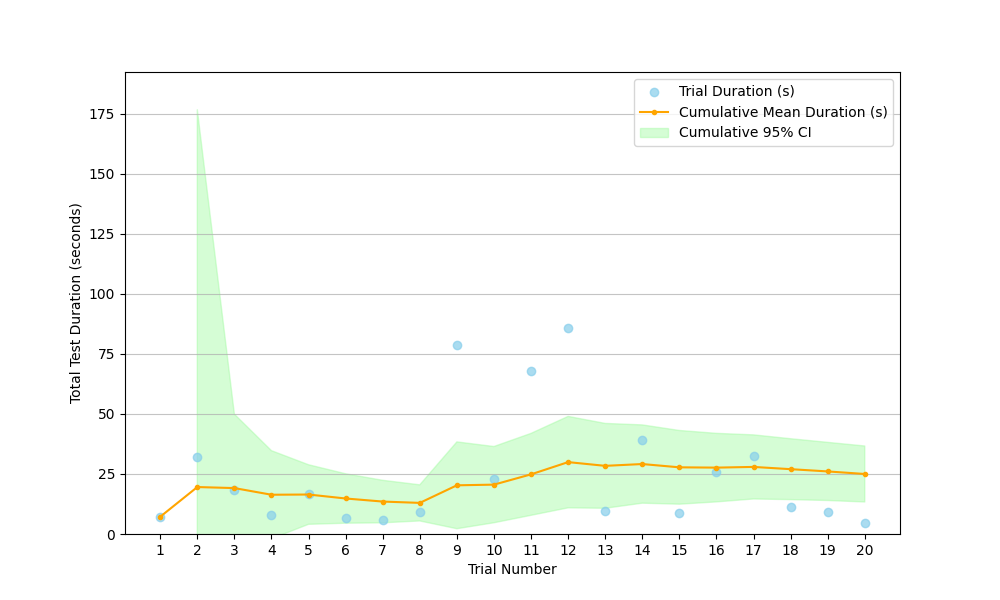
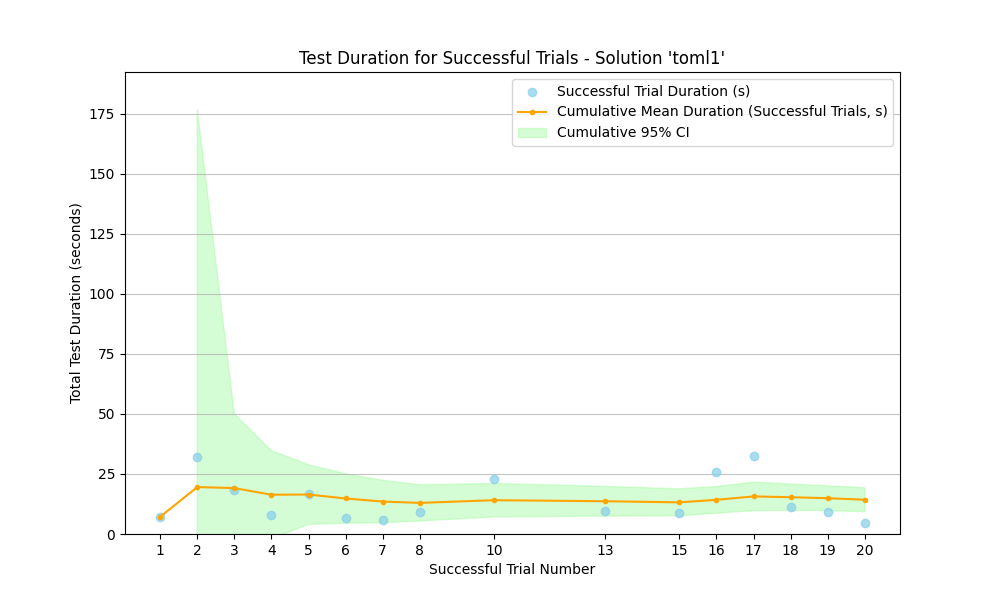
Small change

diff --git a/plot_total_test_time.py b/plot_total_test_time.py
@@ -12,6 +12,37 @@ LOG_DIR = "logs"
 PLOT_DIR = "plots" # Define the output directory for plots
 TIMESTAMP_FORMAT = "%Y-%m-%d %H:%M:%S,%f" # Format including milliseconds
 
+# --- Helper function copied and adapted from plot_interactions_to_success.py ---
+def check_trial_success(tester_log_filepath, solution_name, max_loops):
+    """
+    Checks if a trial was successful based on its tester log file.
+
+    Args:
+        tester_log_filepath (str): Path to the tester log file.
+        solution_name (str): The name of the solution being tested.
+        max_loops (int): The maximum number of loops configured for the test run.
+
+    Returns:
+        bool: True if success message was found, False otherwise.
+    """
+    success_found = False
+    # Regex to find the success line
+    success_pattern = re.compile(rf"--- Solution '{re.escape(solution_name)}' completed successfully\. Stopping loop\. ---")
+
+    try:
+        with open(tester_log_filepath, 'r', encoding='utf-8') as f:
+            for line in f:
+                if success_pattern.search(line):
+                    success_found = True
+                    break # Found success, no need to read further
+        return success_found
+    except FileNotFoundError:
+        print(f"Warning: Tester log file not found for success check: {tester_log_filepath}")
+        return False # Treat missing tester log as failure for duration calculation
+    except Exception as e:
+        print(f"Warning: Error reading tester log file {tester_log_filepath} for success check: {e}")
+        return False # Treat errors as failure
+
 def parse_log_for_duration(log_filepath):
     """
     Parses a single AIPyCraft main log file to find the total duration.
@@ -82,128 +113,157 @@ def parse_log_for_duration(log_filepath):
         print(f"Warning: Log file not found: {log_filepath}")
         return -1.0 # Indicate file not found
     except Exception as e:
-        print(f"Warning: Error parsing log file {log_filepath}: {e}")
+        print(f"Warning: Error parsing duration log file {log_filepath}: {e}")
         return -1.0 # Indicate general parsing error
 
-def main(trials, solution_name):
+def main(trials, loops_value, solution_name):
     """
-    Main function to analyze logs and generate plot for total test time.
+    Main function to analyze logs and generate plot for total test time,
+    considering only successful trials.
     """
-    print(f"Analyzing total test time from logs for solution '{solution_name}' across {trials} trials.")
+    print(f"Analyzing total test time from logs for solution '{solution_name}' across {trials} trials (max loops: {loops_value}).")
 
     # Store results per trial: {trial_num: duration_in_seconds_or_error_code}
-    # Use -1.0 for failure/error
-    trial_results = {}
-    parse_errors = 0
+    # Use -1.0 for error, -2.0 for skipped due to failure
+    trial_durations = {}
+    duration_parse_errors = 0
+    skipped_failed_trials = 0
+    processed_trials_count = 0
 
-    # Find relevant log files (AIPyCraft_main logs)
-    log_pattern = os.path.join(LOG_DIR, f"AIPyCraft_main_*_run*.log")
-    all_log_files = glob.glob(log_pattern)
+    # Find relevant log files (AIPyCraft_main and tester logs)
+    main_log_pattern = os.path.join(LOG_DIR, f"AIPyCraft_main_*_run*.log")
+    tester_log_pattern = os.path.join(LOG_DIR, f"tester_run_*_run*.log")
+    all_main_logs = glob.glob(main_log_pattern)
+    all_tester_logs = glob.glob(tester_log_pattern)
 
-    run_id_to_log = {}
-    # Extract run_id and find the latest log for each run_id
-    for log_file in all_log_files:
+    main_run_id_to_log = {}
+    tester_run_id_to_log = {}
+
+    # Map run IDs to latest main logs
+    for log_file in all_main_logs:
         match = re.search(r"_run(\d+)\.log$", log_file)
         if match:
             run_id = int(match.group(1))
-            if run_id not in run_id_to_log or log_file > run_id_to_log[run_id]:
-                 run_id_to_log[run_id] = log_file
+            if run_id not in main_run_id_to_log or log_file > main_run_id_to_log[run_id]:
+                 main_run_id_to_log[run_id] = log_file
+
+    # Map run IDs to latest tester logs
+    for log_file in all_tester_logs:
+        match = re.search(r"_run(\d+)\.log$", log_file)
+        if match:
+            run_id = int(match.group(1))
+            if run_id not in tester_run_id_to_log or log_file > tester_run_id_to_log[run_id]:
+                 tester_run_id_to_log[run_id] = log_file
 
     # Process logs for the requested number of trials
-    processed_trials_count = 0
     for i in range(1, trials + 1):
-        log_filepath = run_id_to_log.get(i)
-        if log_filepath:
-            processed_trials_count += 1
-            print(f"Processing Trial {i}: {log_filepath}")
-            duration = parse_log_for_duration(log_filepath)
-            trial_results[i] = duration # Store duration or -1.0 for error
+        tester_log_filepath = tester_run_id_to_log.get(i)
+        main_log_filepath = main_run_id_to_log.get(i)
+
+        if not tester_log_filepath:
+            print(f"Warning: Tester log for Trial {i} not found. Skipping duration calculation.")
+            skipped_failed_trials += 1 # Count as skipped/failed
+            continue # Skip this trial
+
+        # Check if the trial was successful using the tester log
+        is_success = check_trial_success(tester_log_filepath, solution_name, loops_value)
+
+        if not is_success:
+            print(f"Info: Trial {i} failed (based on tester log). Skipping duration calculation.")
+            skipped_failed_trials += 1
+            continue # Skip this trial
+
+        # If successful, proceed to calculate duration from the main log
+        processed_trials_count += 1 # Count only trials checked for duration
+        if main_log_filepath:
+            print(f"Processing Successful Trial {i} for duration: {main_log_filepath}")
+            duration = parse_log_for_duration(main_log_filepath)
+            trial_durations[i] = duration # Store duration or -1.0 for error
             if duration < 0:
-                parse_errors += 1
+                duration_parse_errors += 1
         else:
-            print(f"Warning: Log file for Trial {i} not found.")
-            # Count missing files towards parse_errors for consistency
-            parse_errors += 1
+            print(f"Warning: Main log for successful Trial {i} not found. Cannot calculate duration.")
+            trial_durations[i] = -1.0 # Mark as error if main log is missing for a successful trial
+            duration_parse_errors += 1
 
     # --- Statistics ---
-    valid_durations = [d for d in trial_results.values() if d >= 0] # Durations >= 0 are valid
-    num_valid_trials = len(valid_durations)
-    num_processed = len(trial_results) # Number of trials where logs were found and processed
+    # Filter results to include only successful trials with valid durations
+    valid_durations = {k: v for k, v in trial_durations.items() if v >= 0}
+    num_valid_duration_trials = len(valid_durations)
 
     print("\n--- Analysis Results ---")
     print(f"Total trials requested: {trials}")
-    print(f"Trials processed (logs found): {num_processed}")
-    print(f"Trials with valid duration calculated: {num_valid_trials}")
-    print(f"Trials with errors (missing/empty/parse error): {parse_errors}")
+    print(f"Trials processed for duration (successful & main log found): {processed_trials_count}")
+    print(f"Trials skipped due to failure or missing tester log: {skipped_failed_trials}")
+    print(f"Successful trials with valid duration calculated: {num_valid_duration_trials}")
+    print(f"Successful trials with duration errors (missing main log/parse error): {duration_parse_errors}")
 
-    if num_valid_trials == 0:
-         print("\nNo trials with valid durations found. Cannot generate plot.")
+    if num_valid_duration_trials == 0:
+         print("\nNo successful trials with valid durations found. Cannot generate plot.")
          return # Exit if no data
 
-    # --- Calculate Cumulative Statistics ---
-    trial_numbers_processed = sorted(trial_results.keys())
+    # --- Calculate Cumulative Statistics (based on successful trials with valid durations) ---
+    valid_trial_numbers_sorted = sorted(valid_durations.keys())
     cumulative_trial_numbers_for_plot = []
     cumulative_means = []
     cumulative_ci_lowers = []
     cumulative_ci_uppers = []
-    current_valid_durations = []
+    current_successful_valid_durations = []
 
-    for k in trial_numbers_processed: # Iterate through the processed trials in order
-        if trial_results[k] >= 0: # Consider only trials with valid durations
-            current_valid_durations.append(trial_results[k])
+    for k in valid_trial_numbers_sorted: # Iterate through the successful trials with valid durations
+        current_successful_valid_durations.append(valid_durations[k])
 
-            if len(current_valid_durations) >= 2: # Need at least 2 points for CI
-                mean_k = np.mean(current_valid_durations)
-                sem_k = stats.sem(current_valid_durations)
-                df_k = len(current_valid_durations) - 1
-                confidence_level = 0.95
-                if sem_k > 0 and df_k > 0:
-                     ci_margin_k = sem_k * stats.t.ppf((1 + confidence_level) / 2., df_k)
-                     ci_lower_k = mean_k - ci_margin_k
-                     ci_upper_k = mean_k + ci_margin_k
-                else: # If SEM is 0 (all values identical), CI is just the mean
-                     ci_lower_k = mean_k
-                     ci_upper_k = mean_k
+        if len(current_successful_valid_durations) >= 2: # Need at least 2 points for CI
+            mean_k = np.mean(current_successful_valid_durations)
+            sem_k = stats.sem(current_successful_valid_durations)
+            df_k = len(current_successful_valid_durations) - 1
+            confidence_level = 0.95
+            if sem_k > 0 and df_k > 0:
+                 ci_margin_k = sem_k * stats.t.ppf((1 + confidence_level) / 2., df_k)
+                 ci_lower_k = mean_k - ci_margin_k
+                 ci_upper_k = mean_k + ci_margin_k
+            else: # If SEM is 0 (all values identical), CI is just the mean
+                 ci_lower_k = mean_k
+                 ci_upper_k = mean_k
 
-                cumulative_trial_numbers_for_plot.append(k)
-                cumulative_means.append(mean_k)
-                cumulative_ci_lowers.append(ci_lower_k)
-                cumulative_ci_uppers.append(ci_upper_k)
-            elif len(current_valid_durations) == 1: # Can plot mean but not CI yet
-                 mean_k = current_valid_durations[0]
-                 cumulative_trial_numbers_for_plot.append(k)
-                 cumulative_means.append(mean_k)
-                 cumulative_ci_lowers.append(np.nan) # Append NaN for CI bounds
-                 cumulative_ci_uppers.append(np.nan)
+            cumulative_trial_numbers_for_plot.append(k)
+            cumulative_means.append(mean_k)
+            cumulative_ci_lowers.append(ci_lower_k)
+            cumulative_ci_uppers.append(ci_upper_k)
+        elif len(current_successful_valid_durations) == 1: # Can plot mean but not CI yet
+             mean_k = current_successful_valid_durations[0]
+             cumulative_trial_numbers_for_plot.append(k)
+             cumulative_means.append(mean_k)
+             cumulative_ci_lowers.append(np.nan) # Append NaN for CI bounds
+             cumulative_ci_uppers.append(np.nan)
 
     # --- Plotting ---
-    # Filter processed trial numbers to only include those with valid results for plotting
-    valid_trial_numbers = [t for t in trial_numbers_processed if trial_results[t] >= 0]
-    valid_duration_values = [trial_results[t] for t in valid_trial_numbers]
+    # Use the already filtered valid_durations dictionary
+    valid_trial_numbers_plot = list(valid_durations.keys())
+    valid_duration_values_plot = list(valid_durations.values())
 
-    if not valid_trial_numbers:
+    if not valid_trial_numbers_plot:
         print("\nNo valid trial durations to plot.")
         return # Exit if no valid data points
 
-    plt.figure(figsize=(max(10, len(valid_trial_numbers) * 0.5), 6)) # Adjust size based on valid trials
+    plt.figure(figsize=(max(10, len(valid_trial_numbers_plot) * 0.5), 6)) # Adjust size based on valid trials
 
     # Plot individual valid trial durations
-    plt.scatter(valid_trial_numbers, valid_duration_values, color='skyblue', label='Trial Duration (s)', zorder=5, alpha=0.7)
+    plt.scatter(valid_trial_numbers_plot, valid_duration_values_plot, color='skyblue', label='Successful Trial Duration (s)', zorder=5, alpha=0.7)
 
-    # Plot cumulative mean line
+    # Plot cumulative mean line (using data derived from valid trials only)
     if cumulative_trial_numbers_for_plot:
-        plt.plot(cumulative_trial_numbers_for_plot, cumulative_means, marker='.', linestyle='-', color='orange', label='Cumulative Mean Duration (s)', zorder=10)
+        plt.plot(cumulative_trial_numbers_for_plot, cumulative_means, marker='.', linestyle='-', color='orange', label='Cumulative Mean Duration (Successful Trials, s)', zorder=10)
 
         # Shade the cumulative confidence interval band
         ci_lowers_np = np.array(cumulative_ci_lowers)
         ci_uppers_np = np.array(cumulative_ci_uppers)
         plt.fill_between(cumulative_trial_numbers_for_plot, ci_lowers_np, ci_uppers_np, color='palegreen', alpha=0.4, label='Cumulative 95% CI', zorder=0)
 
-    plt.xlabel("Trial Number") # Updated label
+    plt.xlabel("Successful Trial Number") # Updated label
     plt.ylabel("Total Test Duration (seconds)")
-    # Removed the subtitle line with counts
-    #plt.title(f"Cumulative Mean Total Test Duration for Solution '{solution_name}'")
-    plt.xticks(valid_trial_numbers) # Set x-ticks to only valid trial numbers
+    plt.title(f"Test Duration for Successful Trials - Solution '{solution_name}'") # Updated title
+    plt.xticks(valid_trial_numbers_plot) # Set x-ticks to only successful, valid trial numbers
     plt.grid(axis='y', alpha=0.75)
     plt.ylim(bottom=0) # Ensure y-axis starts at 0
     plt.legend()
@@ -217,23 +277,25 @@ def main(trials, solution_name):
     print(f"\nCumulative total time plot saved to: {plot_filepath}")
     # plt.show()
 
-    # Also print overall summary stats if there were valid durations
-    if num_valid_trials > 0:
-        min_dur = min(valid_durations)
-        max_dur = max(valid_durations)
-        mean_dur = statistics.mean(valid_durations)
-        median_dur = statistics.median(valid_durations)
-        print(f"\nOverall Statistics for {num_valid_trials} Valid Trials:")
+    # Also print overall summary stats for successful trials with valid durations
+    if num_valid_duration_trials > 0:
+        valid_duration_list = list(valid_durations.values())
+        min_dur = min(valid_duration_list)
+        max_dur = max(valid_duration_list)
+        mean_dur = statistics.mean(valid_duration_list)
+        median_dur = statistics.median(valid_duration_list)
+        print(f"\nOverall Statistics for {num_valid_duration_trials} Successful Trials with Valid Durations:")
         print(f"  Min duration: {min_dur:.2f} s")
         print(f"  Max duration: {max_dur:.2f} s")
         print(f"  Mean duration: {mean_dur:.2f} s")
         print(f"  Median duration: {median_dur:.2f} s")
 
 if __name__ == "__main__":
-    parser = argparse.ArgumentParser(description="Analyze AIPyCraft main logs and plot total test duration.")
-    # Re-use Trials and SolutionName, LoopsValue is not needed here
-    parser.add_argument("-Trials", type=int, required=True, help="The total number of trials (log files) to analyze.")
-    parser.add_argument("-SolutionName", type=str, required=True, help="The name of the solution analyzed (used for plot title/filename).")
+    parser = argparse.ArgumentParser(description="Analyze AIPyCraft main logs for successful trials and plot total test duration.")
+    parser.add_argument("-Trials", type=int, required=True, help="The total number of trials to check.")
+    # Add LoopsValue argument needed for success check
+    parser.add_argument("-LoopsValue", type=int, required=True, help="The max number of loops per trial (used for success check).")
+    parser.add_argument("-SolutionName", type=str, required=True, help="The name of the solution analyzed.")
     args = parser.parse_args()
 
-    main(args.Trials, args.SolutionName)
+    main(args.Trials, args.LoopsValue, args.SolutionName)
